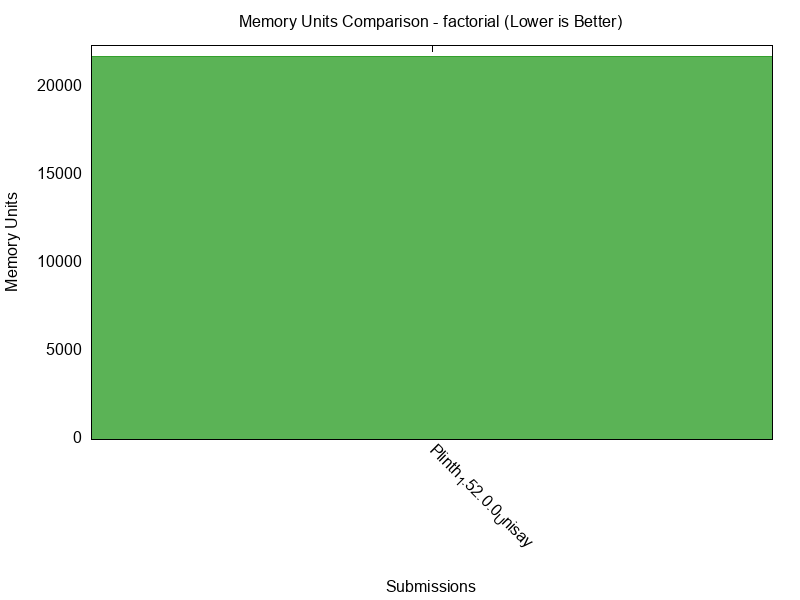
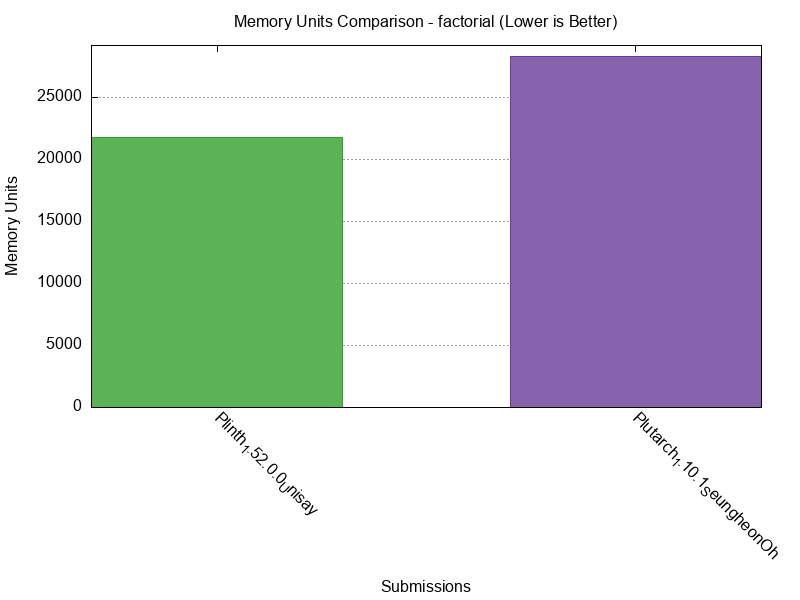
chore(metrics): update measurements and regenerate reports
- Updated all submission metrics from cape submission measure --all
- Regenerated reports showing factorial benchmark with 2 submissions:
  - Plinth 1.52.0.0: 5.86M CPU, 21.75K Memory (best)
  - Plutarch 1.10.1: 7.85M CPU, 28.36K Memory
- Refreshed fibonacci charts and tables with latest measurements

diff --git a/report/index.html b/report/index.html
@@ -231,7 +231,7 @@
     </div>
     
     <div class="timestamp">
-        Generated on: 2025-08-20 11:38:41 CEST
+        Generated on: 2025-08-20 12:02:11 CEST
     </div>
     
     <!-- Benchmark Summary Table -->
@@ -252,7 +252,7 @@
                     </div>
                     <div class="count">
                         
-                            (1 submission)
+                            (2 submissions)
                         
                     </div>
                 </div>
@@ -277,7 +277,7 @@
                                 <td>Plinth</td>
                                 <td>1.52.0.0</td>
                                 <td>Unisay</td>
-                                <td>2025-08-18</td>
+                                <td>2025-08-20</td>
                                 <td class="numeric">
                                     <span class="tooltip">
                                         <span class="cpu-value best-value">5.86M</span>
@@ -292,6 +292,27 @@
                                 </td>
                                 <td class="numeric script-value best-value">37</td>
                                 <td class="numeric term-value best-value">29</td>
+                            </tr>
+                            
+                            <tr data-cpu="7845912" data-memory="28362" data-script="42" data-term="35">
+                                <td>Plutarch</td>
+                                <td>Plutarch</td>
+                                <td>Seungheon Oh</td>
+                                <td>2025-08-20</td>
+                                <td class="numeric">
+                                    <span class="tooltip">
+                                        <span class="cpu-value">7.85M</span>
+                                        <span class="tooltiptext">7845912</span>
+                                    </span>
+                                </td>
+                                <td class="numeric">
+                                    <span class="tooltip">
+                                        <span class="memory-value">28.36K</span>
+                                        <span class="tooltiptext">28362</span>
+                                    </span>
+                                </td>
+                                <td class="numeric script-value">42</td>
+                                <td class="numeric term-value">35</td>
                             </tr>
                             
                         </tbody>
@@ -333,7 +354,7 @@
                                 <td>Aiken</td>
                                 <td>1.1.17</td>
                                 <td>KtorZ</td>
-                                <td>2025-08-18</td>
+                                <td>2025-08-20</td>
                                 <td class="numeric">
                                     <span class="tooltip">
                                         <span class="cpu-value">155.31B</span>
@@ -354,7 +375,7 @@
                                 <td>Plinth</td>
                                 <td>1.49.0.0</td>
                                 <td>Unisay</td>
-                                <td>2025-08-18</td>
+                                <td>2025-08-20</td>
                                 <td class="numeric">
                                     <span class="tooltip">
                                         <span class="cpu-value best-value">117.42B</span>
@@ -375,7 +396,7 @@
                                 <td>Plinth</td>
                                 <td>1.52.0.0</td>
                                 <td>Unisay</td>
-                                <td>2025-08-18</td>
+                                <td>2025-08-20</td>
                                 <td class="numeric">
                                     <span class="tooltip">
                                         <span class="cpu-value best-value">117.42B</span>

diff --git a/report/benchmarks/fibonacci.html b/report/benchmarks/fibonacci.html
@@ -150,7 +150,7 @@
     </div>
     
     <div class="timestamp">
-        Generated on: 2025-08-20 11:38:40 CEST
+        Generated on: 2025-08-20 12:02:10 CEST
     </div>
     
     <div class="benchmark-section">
@@ -193,7 +193,7 @@
             </thead>
             <tbody>
                 <tr>
-                    <td>2025-08-18T16:56:26Z</td>
+                    <td>2025-08-20T10:02:01Z</td>
                     <td>Plinth</td>
                     <td>1.49.0.0</td>
                     <td>Unisay</td>
@@ -204,7 +204,7 @@
                     <td><a href="https://github.com/IntersectMBO/UPLC-CAPE/blob/main/submissions/fibonacci/Plinth_1.49.0.0_Unisay/fibonacci.uplc" target="_blank" rel="noopener">🔗</a></td>
                 </tr>
                 <tr>
-                    <td>2025-08-18T16:56:26Z</td>
+                    <td>2025-08-20T10:02:01Z</td>
                     <td>Plinth</td>
                     <td>1.52.0.0</td>
                     <td>Unisay</td>
@@ -215,7 +215,7 @@
                     <td><a href="https://github.com/IntersectMBO/UPLC-CAPE/blob/main/submissions/fibonacci/Plinth_1.52.0.0_Unisay/fibonacci.uplc" target="_blank" rel="noopener">🔗</a></td>
                 </tr>
                 <tr>
-                    <td>2025-08-18T16:56:26Z</td>
+                    <td>2025-08-20T10:02:00Z</td>
                     <td>Aiken</td>
                     <td>1.1.17</td>
                     <td>KtorZ</td>
@@ -226,7 +226,7 @@
                     <td><a href="https://github.com/IntersectMBO/UPLC-CAPE/blob/main/submissions/fibonacci/Aiken_1.1.17_KtorZ/fibonacci.uplc" target="_blank" rel="noopener">🔗</a></td>
                 </tr>
                 <tr>
-                    <td>2025-08-20T05:56:42Z</td>
+                    <td>2025-08-20T10:02:01Z</td>
                     <td>Plutarch</td>
                     <td>1.10.1</td>
                     <td>Seungheon Oh</td>

diff --git a/report/benchmarks/factorial.html b/report/benchmarks/factorial.html
@@ -150,7 +150,7 @@
     </div>
     
     <div class="timestamp">
-        Generated on: 2025-08-20 11:38:38 CEST
+        Generated on: 2025-08-20 12:02:08 CEST
     </div>
     
     <div class="benchmark-section">
@@ -193,7 +193,7 @@
             </thead>
             <tbody>
                 <tr>
-                    <td>2025-08-18T16:56:26Z</td>
+                    <td>2025-08-20T10:02:00Z</td>
                     <td>Plinth</td>
                     <td>1.52.0.0</td>
                     <td>Unisay</td>
@@ -202,6 +202,17 @@
                     <td class="numeric">37</td>
                     <td class="numeric">29</td>
                     <td><a href="https://github.com/IntersectMBO/UPLC-CAPE/blob/main/submissions/factorial/Plinth_1.52.0.0_Unisay/factorial.uplc" target="_blank" rel="noopener">🔗</a></td>
+                </tr>
+                <tr>
+                    <td>2025-08-20T10:02:00Z</td>
+                    <td>Plutarch</td>
+                    <td>Plutarch</td>
+                    <td>Seungheon Oh</td>
+                    <td class="numeric">7845912</td>
+                    <td class="numeric">28362</td>
+                    <td class="numeric">42</td>
+                    <td class="numeric">35</td>
+                    <td><a href="https://github.com/IntersectMBO/UPLC-CAPE/blob/main/submissions/factorial/Plutarch_1.10.1_SeungheonOh/factorial.uplc" target="_blank" rel="noopener">🔗</a></td>
                 </tr>
             </tbody>
         </table>

diff --git a/report/benchmarks/two-party-escrow.html b/report/benchmarks/two-party-escrow.html
@@ -117,7 +117,7 @@
     </div>
     
     <div class="timestamp">
-        Generated on: 2025-08-20 11:38:40 CEST
+        Generated on: 2025-08-20 12:02:10 CEST
     </div>
     
     <div class="benchmark-section">
